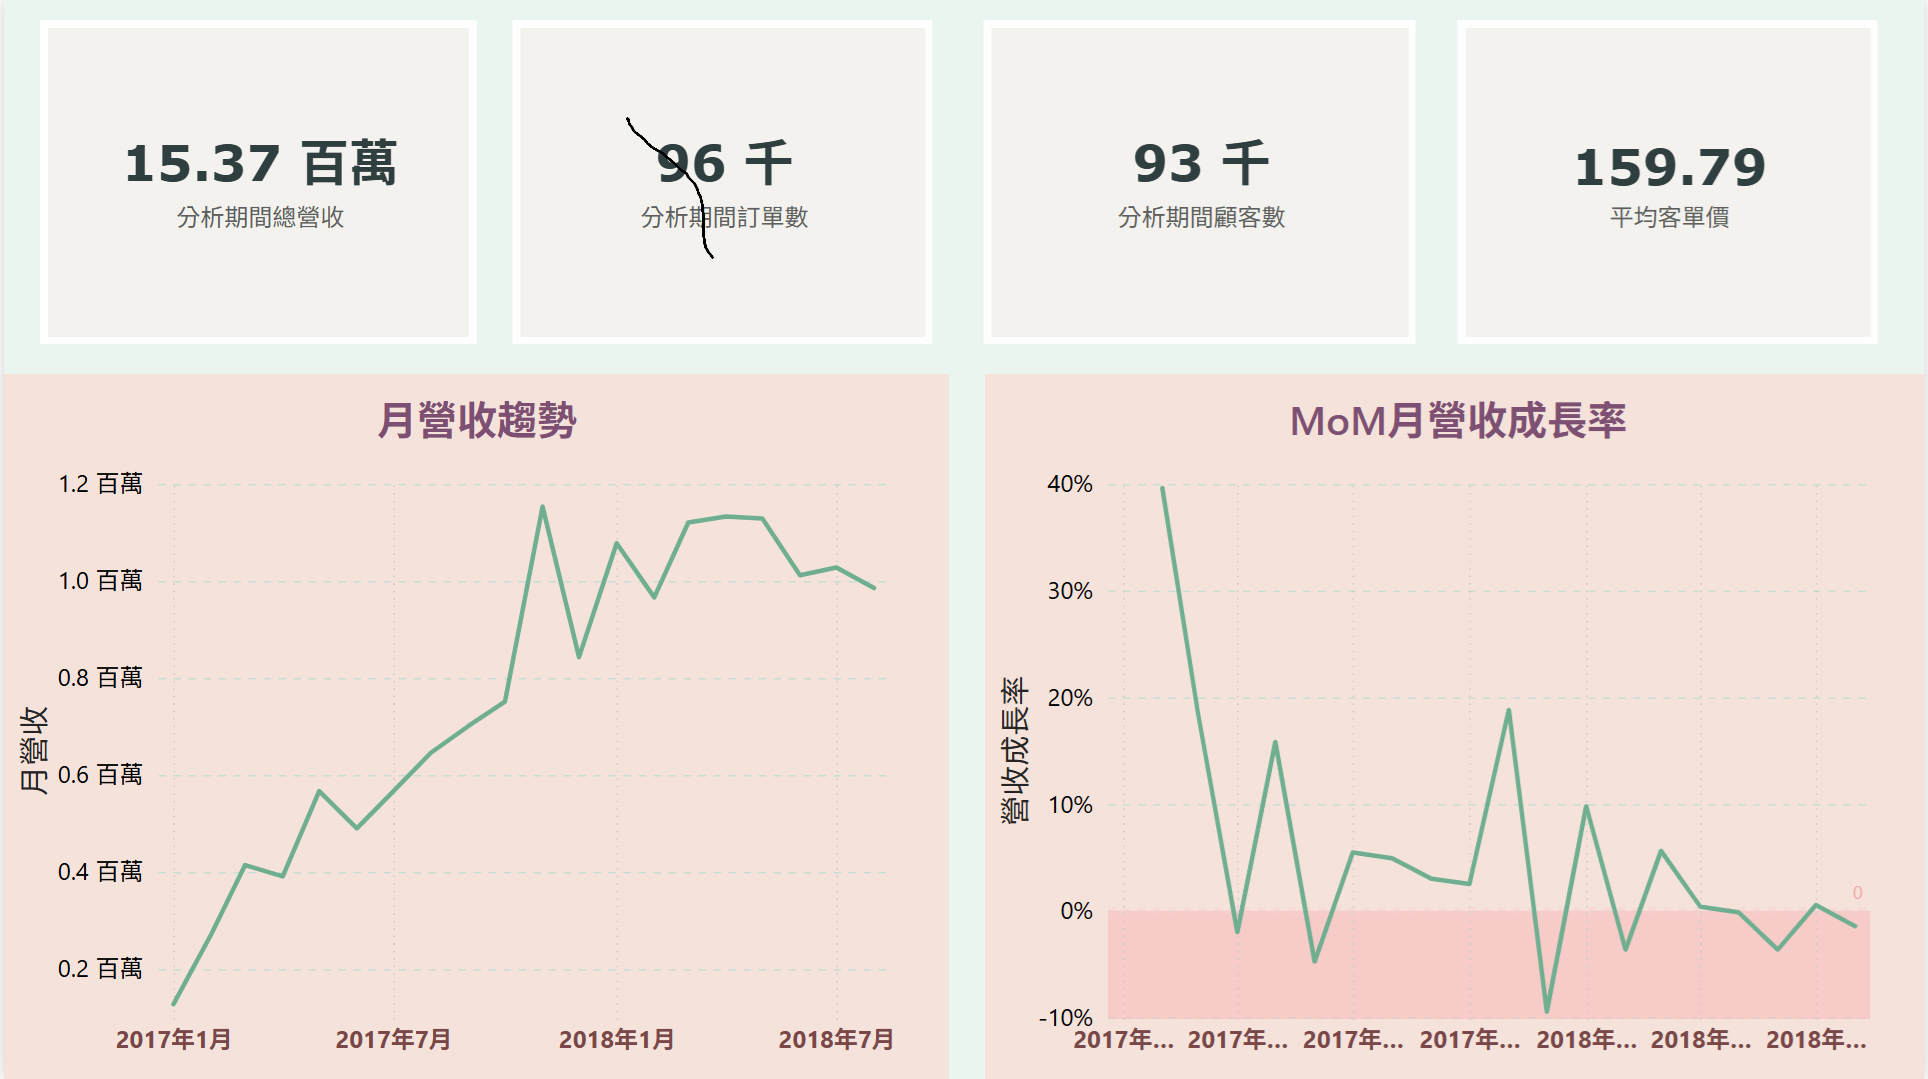
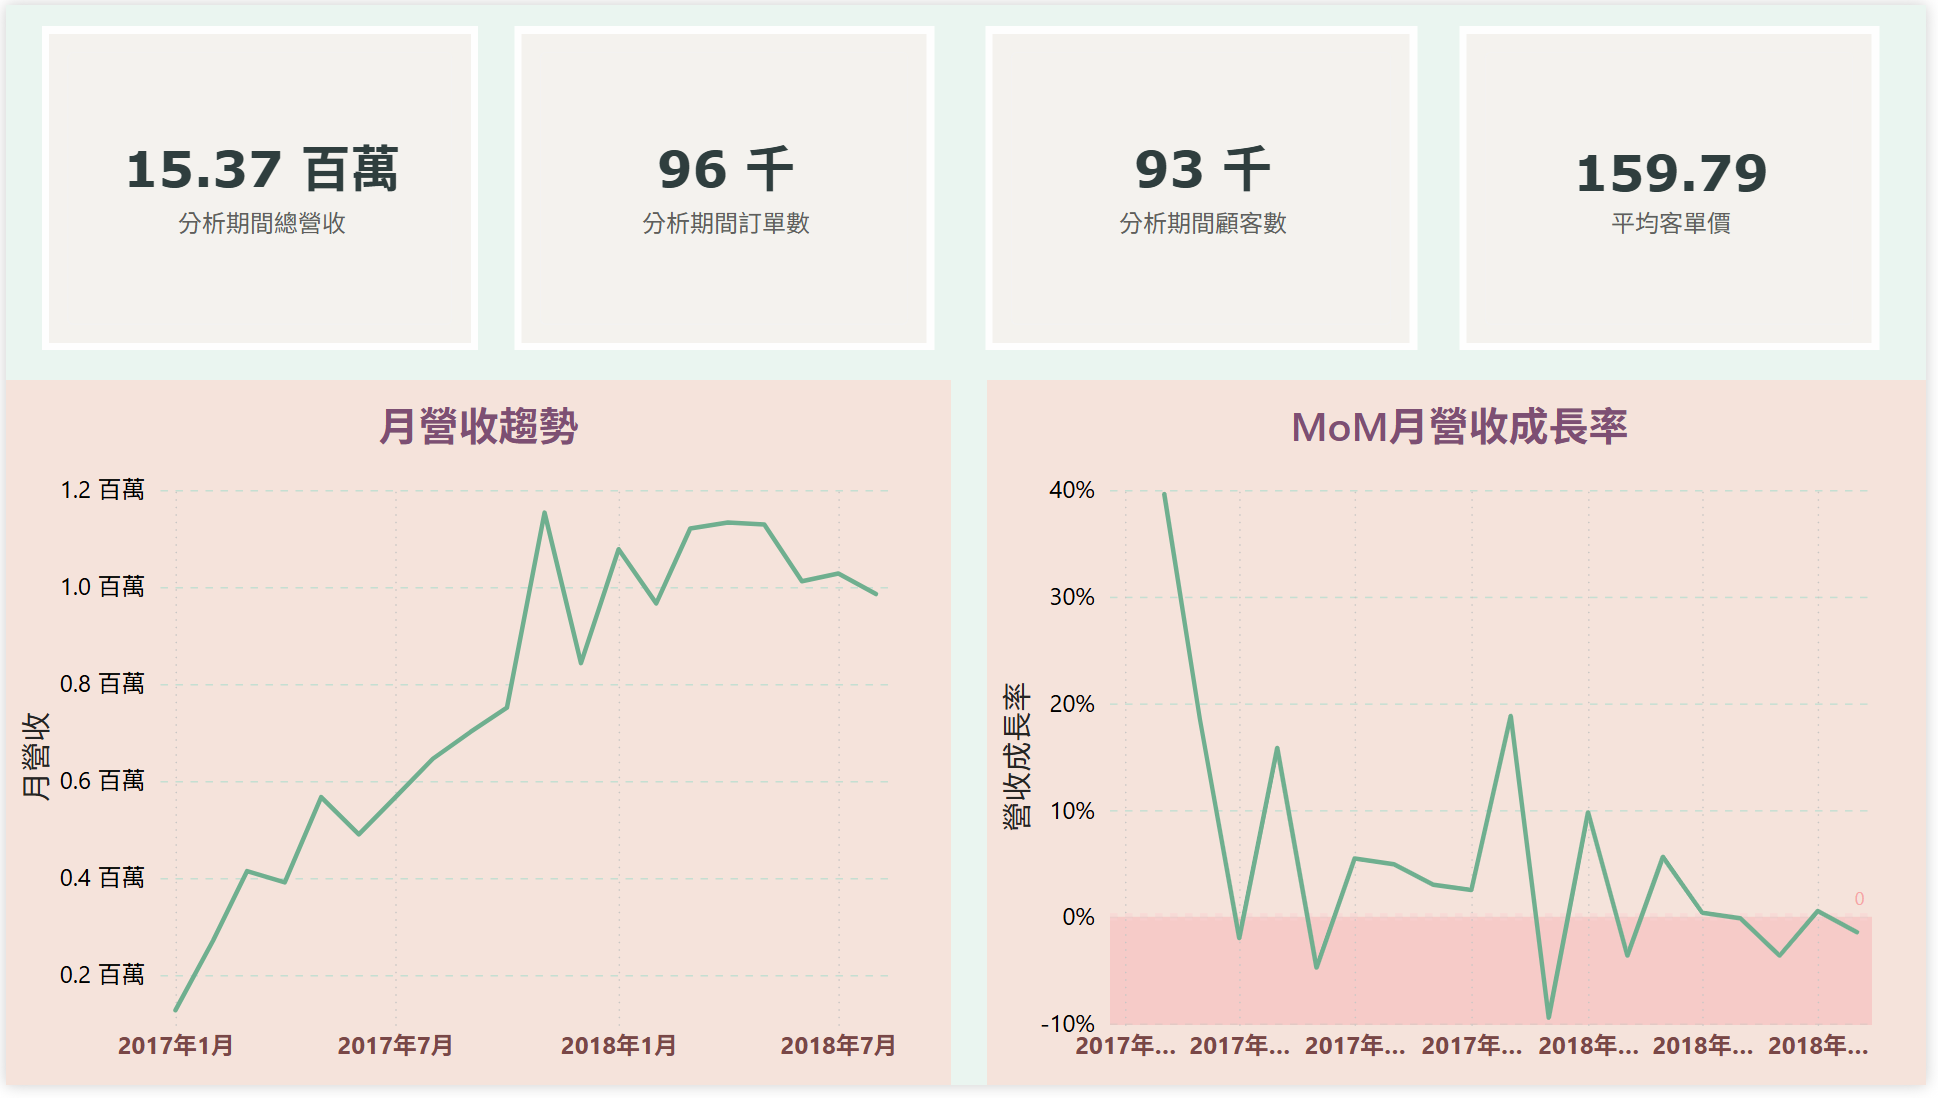
先基本檢查一下作品3的資料

diff --git a/03.SECOM_Manufacturing_Quality_Analysis/02_python/analysis.py b/03.SECOM_Manufacturing_Quality_Analysis/02_python/analysis.py
@@ -1,0 +1,55 @@
+# %%
+import pandas as pd
+from pathlib import Path
+
+# 檔案路徑
+BASE_DIR = Path(__file__).resolve().parent
+
+csv_file_path =BASE_DIR.parent / "01_raw_data"/csv_name
+
+df = pd.read_csv(
+    BASE_DIR.parent / "01_raw_data/secom.data",
+    sep=r"\s+",
+    header=None
+)
+
+labels = pd.read_csv(
+    BASE_DIR.parent /"01_raw_data/secom_labels.data",
+    sep=r"\s+",
+    header=None
+)
+df.head()
+df.shape
+labels.head()
+labels.shape
+labels[labels[0] == -1].shape[0]
+labels[labels[0] == 1].shape[0]
+labels[0].value_counts()
+labels[0].value_counts(normalize=True)
+
+rate_number=[]
+df_miss_rate =((df.shape[0]-df.count())/df.shape[0])
+rate_number.append(df_miss_rate[df_miss_rate >= 0.9].shape[0])
+rate_number.append(df_miss_rate[(df_miss_rate < 0.9) & (df_miss_rate >= 0.8) ].shape[0])
+rate_number.append(df_miss_rate[(df_miss_rate < 0.8) & (df_miss_rate >= 0.7) ].shape[0])
+rate_number.append(df_miss_rate[(df_miss_rate < 0.7) & (df_miss_rate >= 0.6) ].shape[0])
+rate_number.append(df_miss_rate[(df_miss_rate < 0.6) & (df_miss_rate >= 0.5) ].shape[0])
+rate_number.append(df_miss_rate[(df_miss_rate < 0.5) & (df_miss_rate >= 0.4) ].shape[0])
+rate_number.append(df_miss_rate[(df_miss_rate < 0.4) & (df_miss_rate >= 0.3) ].shape[0])
+rate_number.append(df_miss_rate[(df_miss_rate < 0.3) & (df_miss_rate >= 0.2) ].shape[0])
+rate_number.append(df_miss_rate[(df_miss_rate < 0.2) & (df_miss_rate >= 0.1) ].shape[0])
+rate_number.append(df_miss_rate[(df_miss_rate < 0.1)].shape[0])
+sum(rate_number)
+
+((df.shape[0]-df.count())/df.shape[0]).describe()
+((df.shape[0]-df.count())/df.shape[0]).sort_values(ascending=False).head(20)
+
+df.isnull().mean()
+
+# 找出缺失率小於 10% 的欄位名稱
+clean_columns = df.columns[df.isnull().mean() < 0.1]
+
+# 提取出這 538 個欄位，作為你第一輪的訓練資料
+df_first_round = df[clean_columns]
+
+print(f"第一輪使用的資料集形狀: {df_first_round.shape}")
